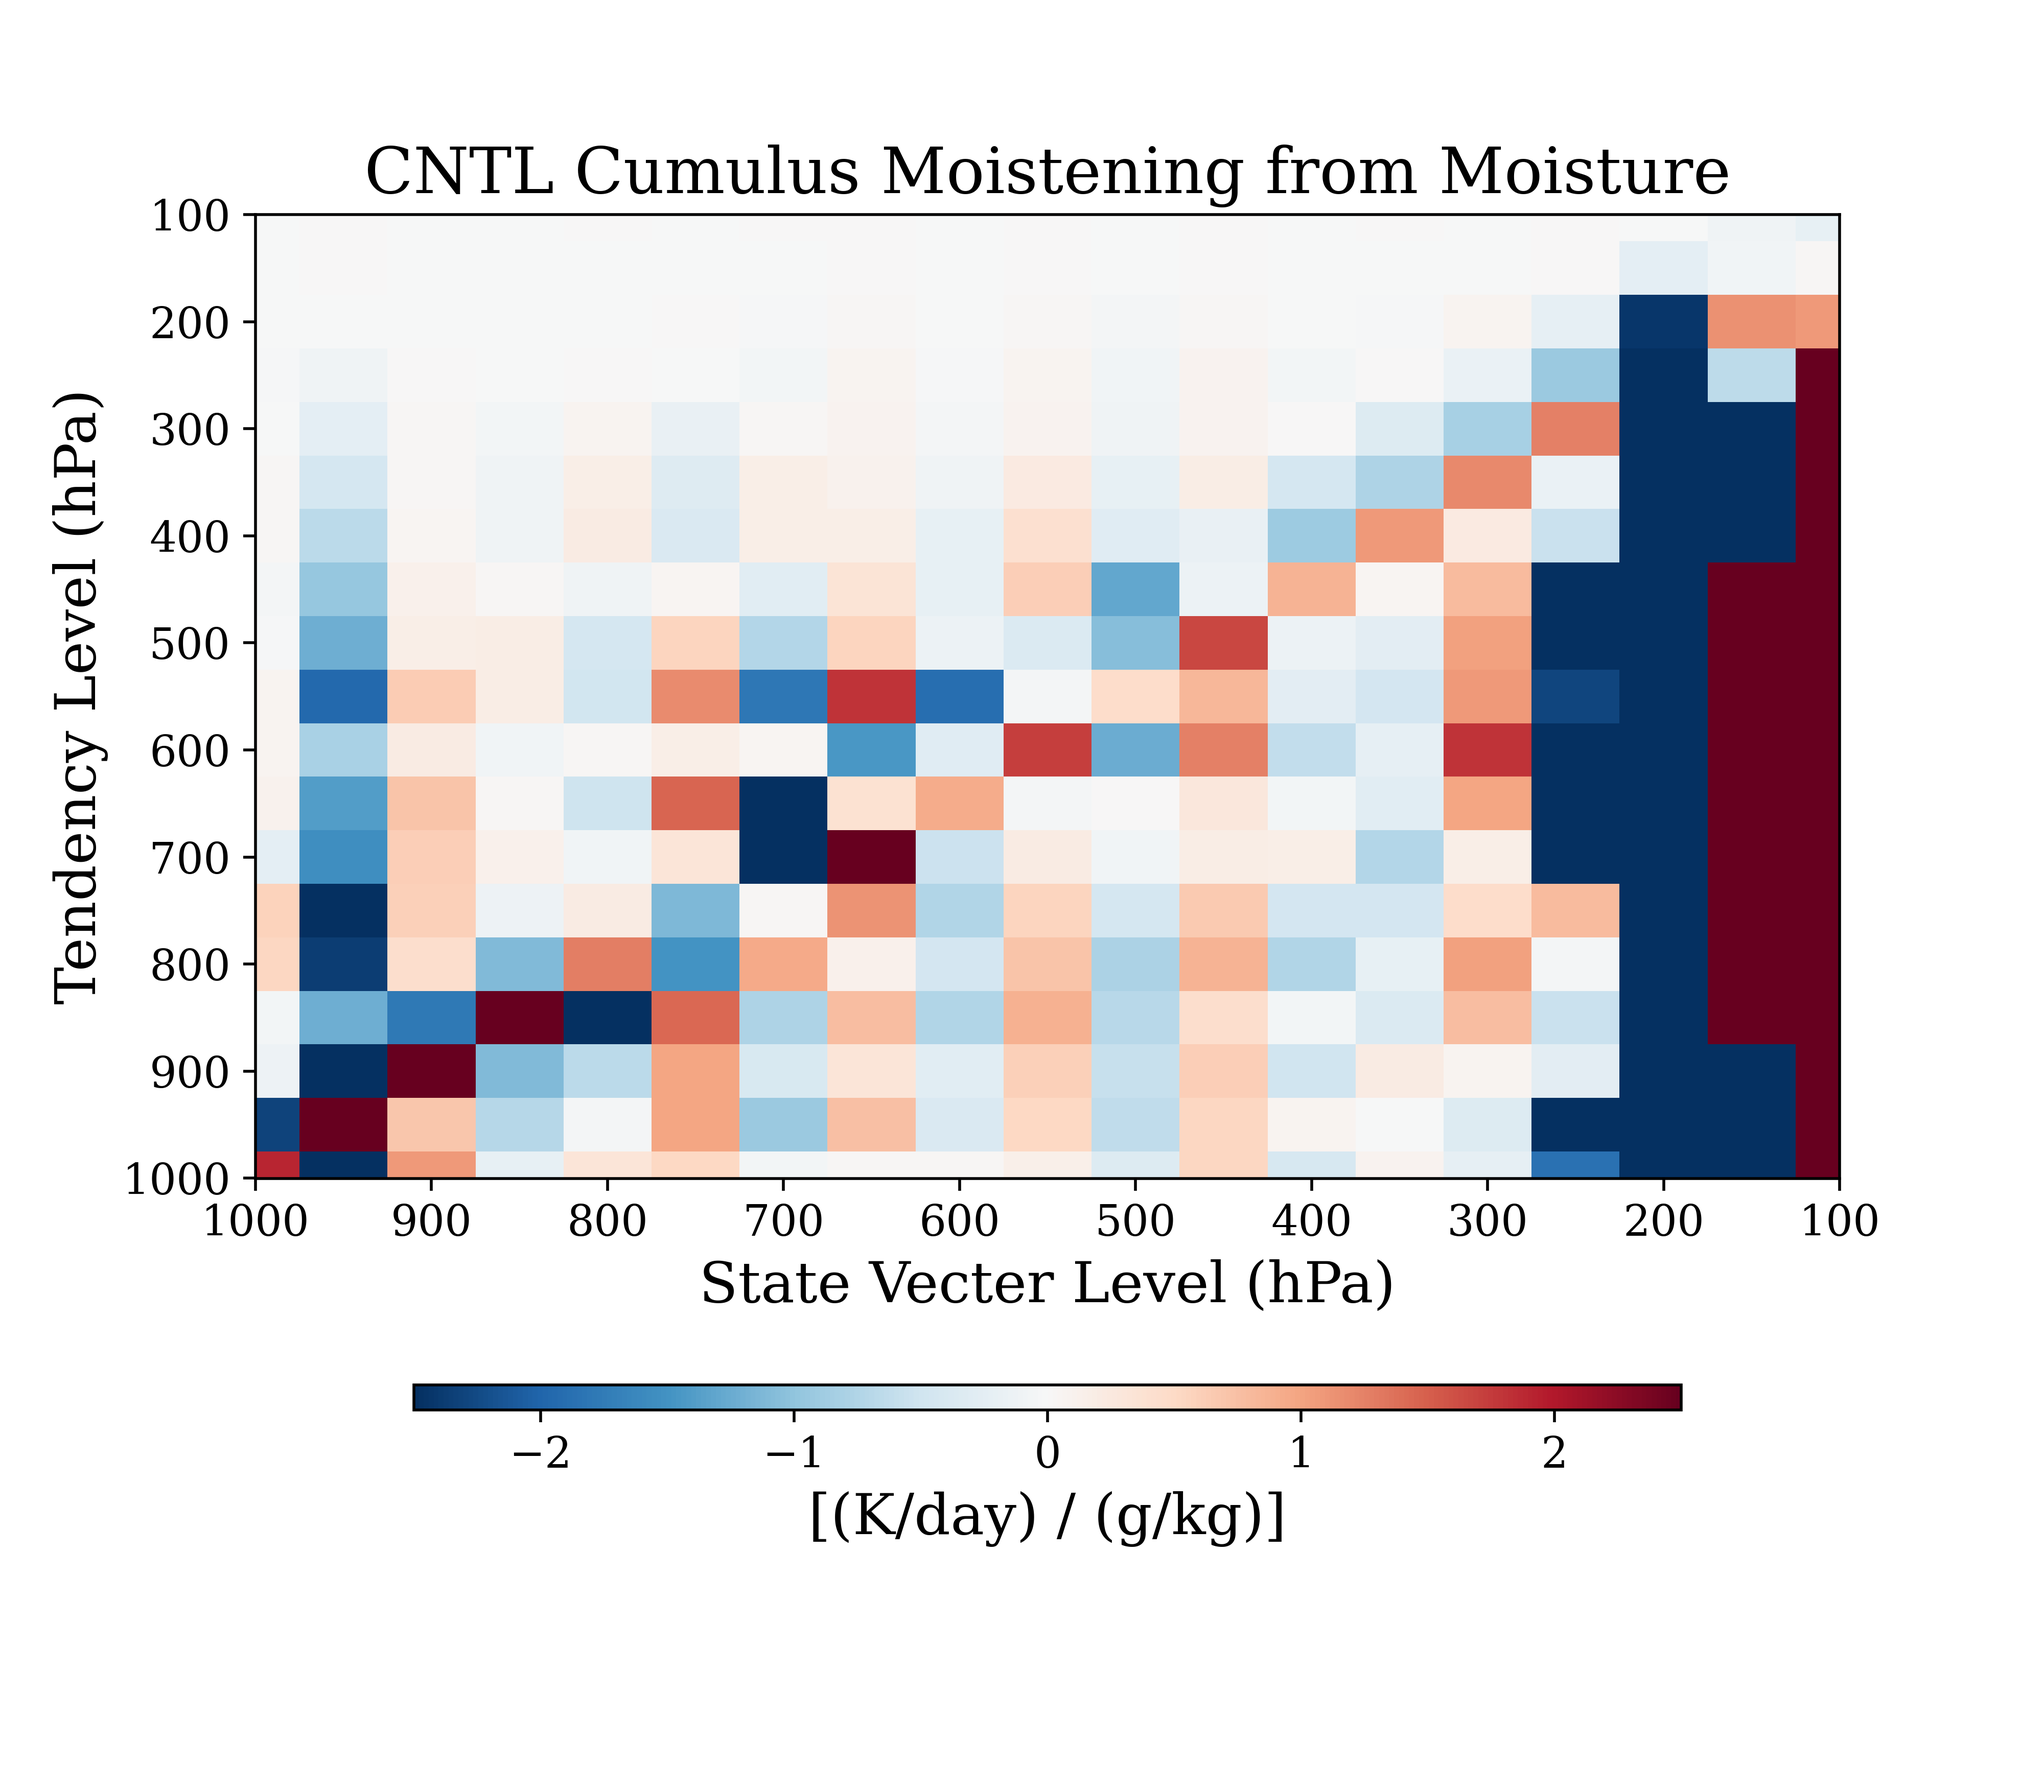
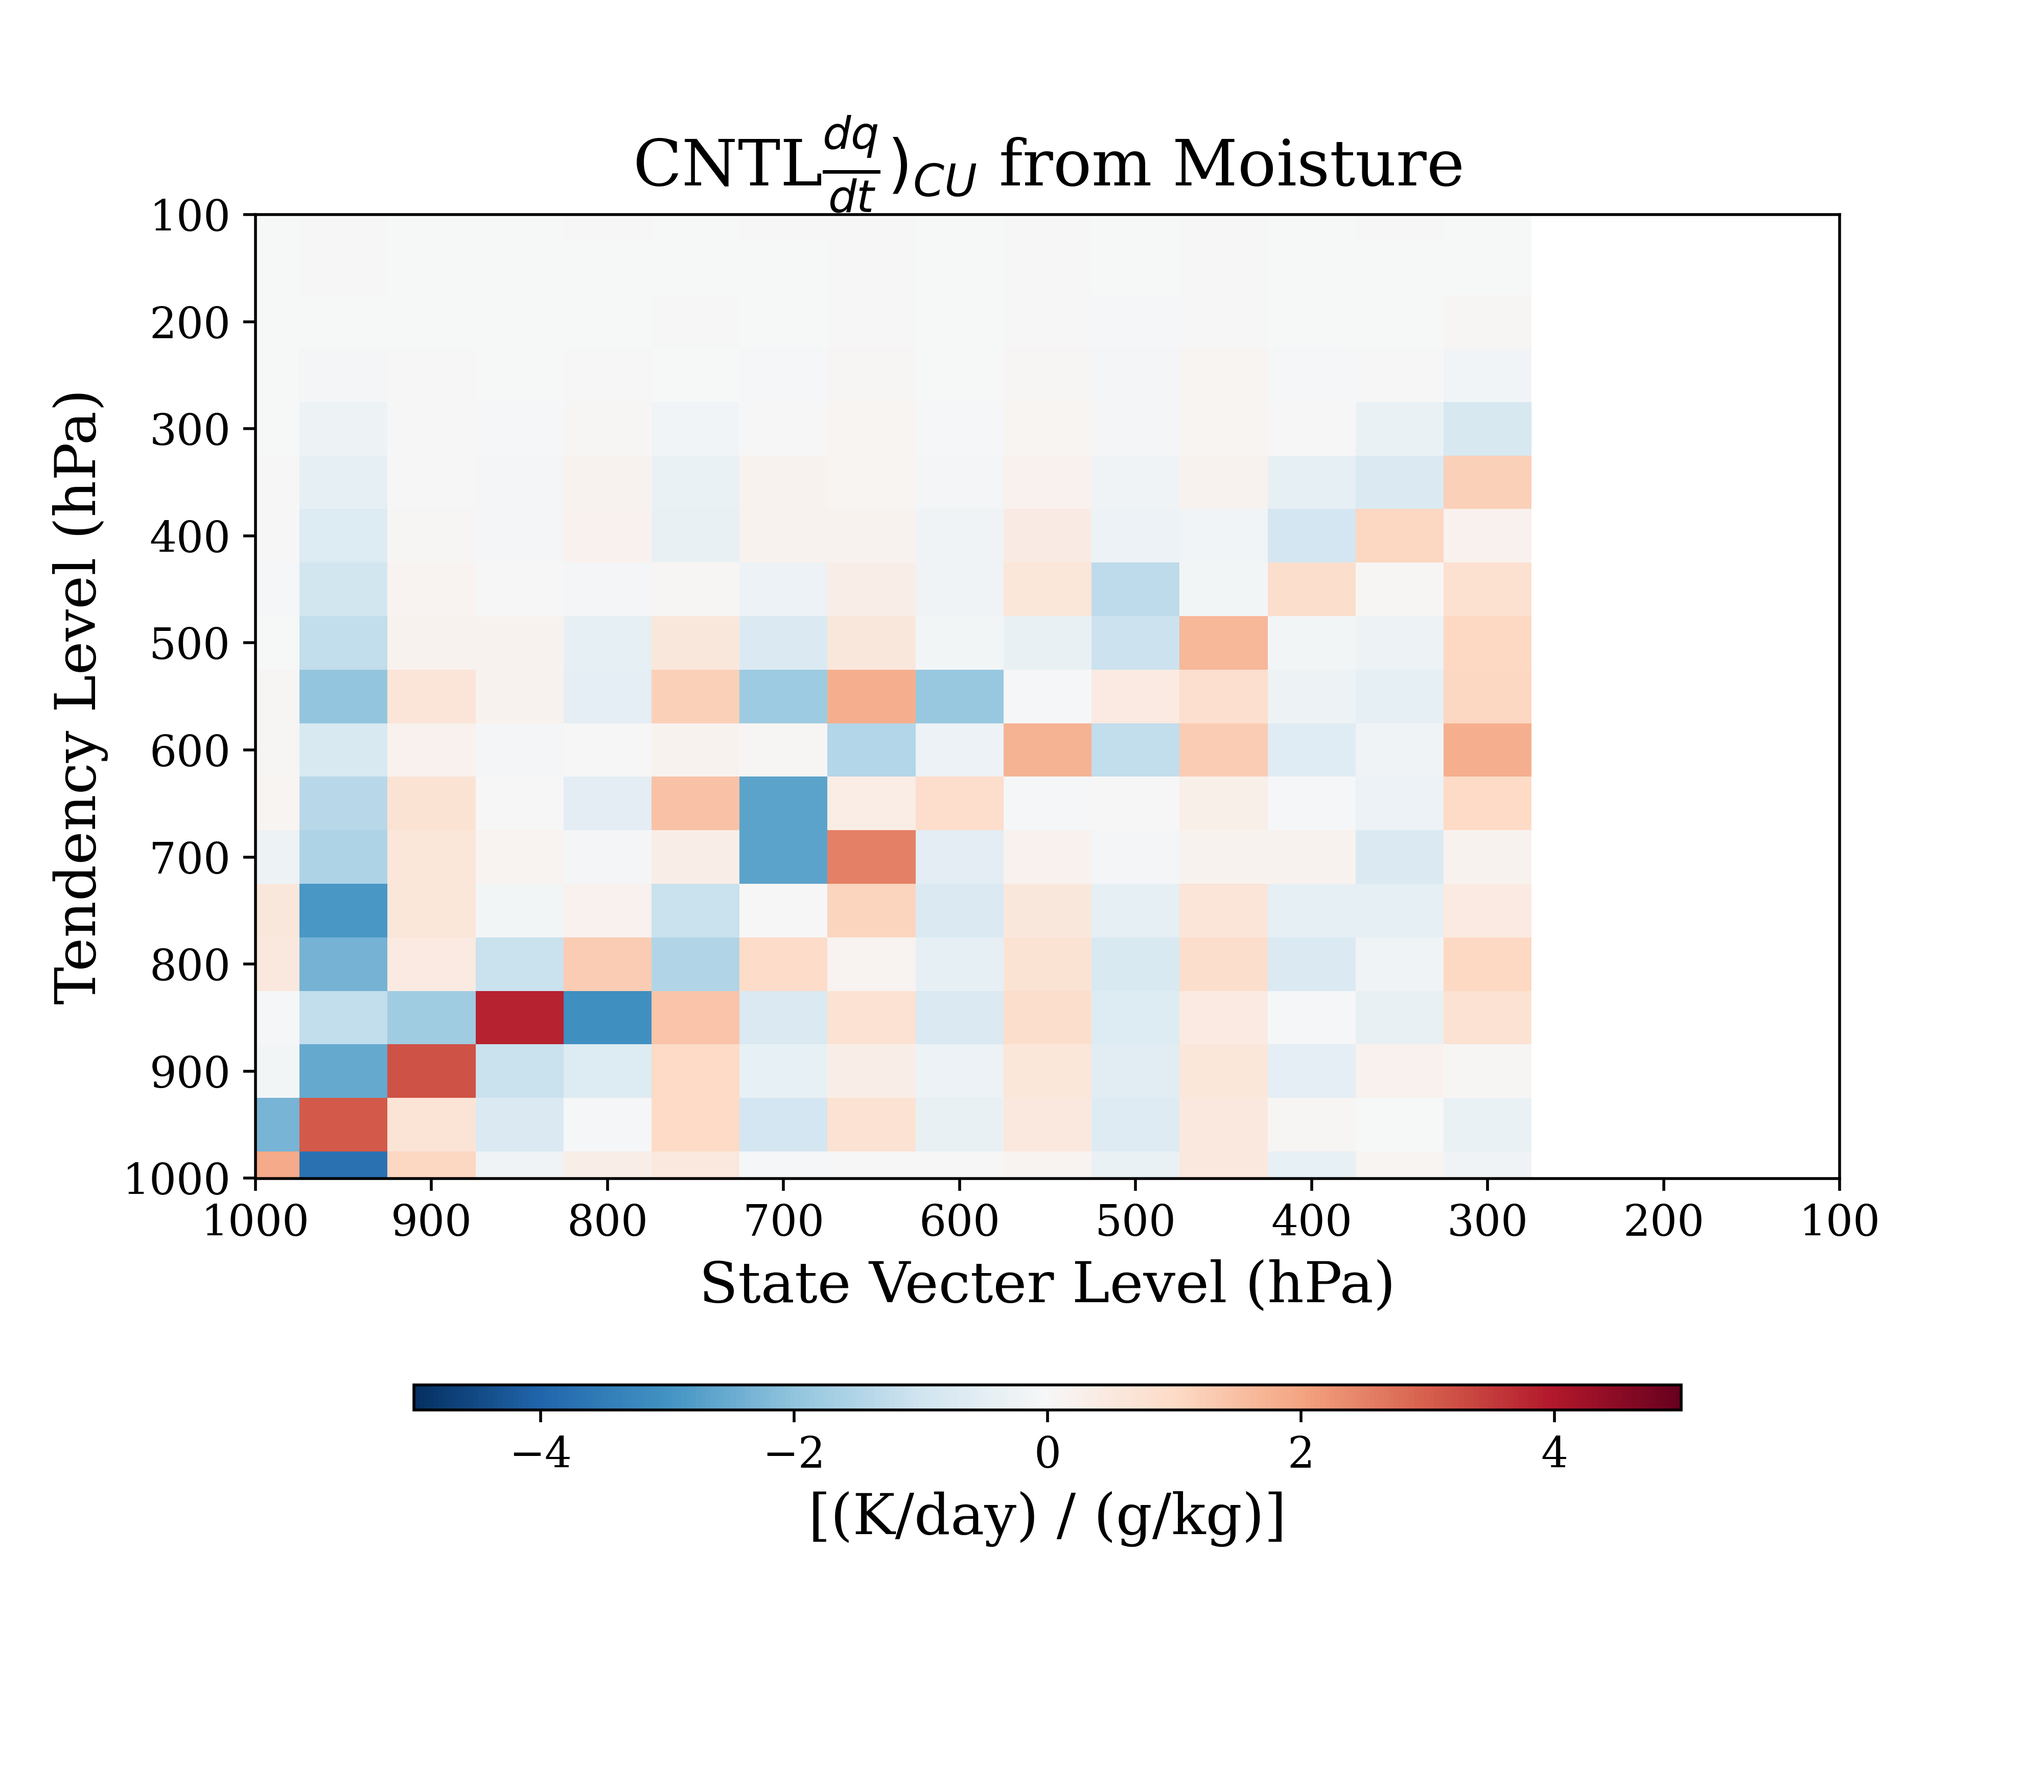
new CNTL LRF images

Changed region(s): [[0.125, 0.0623, 0.9062, 0.6851], [0.1875, 0.0623, 0.25, 0.1246]]

diff --git a/MPAS/LRF/LRF_new/CNTL.py b/MPAS/LRF/LRF_new/CNTL.py
@@ -120,6 +120,10 @@ lw_lrf = NormEqu(data_itp["rtratenlw"], state_vec)
 sw_lrf = NormEqu(data_itp["rtratensw"], state_vec)
 cu_lrf = NormEqu(conv_tend, state_vec)
 
+lw_lrf[:, 19:23] = np.nan
+sw_lrf[:, 19:23] = np.nan
+cu_lrf[:, 19:23] = np.nan
+
 lrf_dict = {
     "lev"   : lev_itp,
     "lw_lrf": lw_lrf,
@@ -153,7 +157,7 @@ plt.xlim(1000, 100)
 plt.ylim(1000, 100)
 plt.xlabel('State Vecter Level (hPa)')
 plt.ylabel('Tendency Level (hPa)')
-plt.title(f'{case} Longwave Heating from Temperature')
+plt.title(case+r"$\frac{dT}{dt})_{LW}$ from Temperature")
 plt.colorbar(orientation='horizontal', label='[(K/day) / (K) ]', aspect=50, shrink=0.8)
 plt.savefig(f'{image_path}lw_t_t.png', dpi=500)
 plt.show()
@@ -167,63 +171,63 @@ plt.xlim(1000, 100)
 plt.ylim(1000, 100)
 plt.xlabel('State Vecter Level (hPa)')
 plt.ylabel('Tendency Level (hPa)')
-plt.title(f'{case} Longwave Heating from Moisture')
+plt.title(case+r'$\frac{dT}{dt})_{LW}$ from Moisture')
 plt.colorbar(orientation='horizontal', label='[(K/day) / (g/kg)]', aspect=50, shrink=0.8)
 plt.savefig(f'{image_path}lw_t_q.png', dpi=500)
 plt.show()
 plt.close()
 
 plt.figure(figsize=(8, 7))
-plt.pcolormesh(lev_itp, lev_itp, sw_lrf[:, :19], cmap="RdBu_r", vmin=-2.5, vmax=2.5)
+plt.pcolormesh(lev_itp, lev_itp, sw_lrf[:, :19], cmap="RdBu_r", vmin=-3, vmax=3)
 plt.xticks(np.linspace(100, 1000, 10))
 plt.yticks(np.linspace(100, 1000, 10))
 plt.xlim(1000, 100)
 plt.ylim(1000, 100)
 plt.xlabel('State Vecter Level (hPa)')
 plt.ylabel('Tendency Level (hPa)')
-plt.title(f'{case} Shortwave Heating from Temperature')
+plt.title(case+r'$\frac{dT}{dt})_{SW}$ from Temperature')
 plt.colorbar(orientation='horizontal', label='[(K/day) / (K) ]', aspect=50, shrink=0.8)
 plt.savefig(f'{image_path}sw_t_t.png', dpi=500)
 plt.show()
 plt.close()
 
 plt.figure(figsize=(8, 7))
-plt.pcolormesh(lev_itp, lev_itp, sw_lrf[:, 19:], cmap="RdBu_r", vmin=-2.5, vmax=2.5)
+plt.pcolormesh(lev_itp, lev_itp, sw_lrf[:, 19:], cmap="RdBu_r", vmin=-3, vmax=3)
 plt.xticks(np.linspace(100, 1000, 10))
 plt.yticks(np.linspace(100, 1000, 10))
 plt.xlim(1000, 100)
 plt.ylim(1000, 100)
 plt.xlabel('State Vecter Level (hPa)')
 plt.ylabel('Tendency Level (hPa)')
-plt.title(f'{case} Shortwave Heating from Moisture')
+plt.title(case+r'$\frac{dT}{dt})_{SW}$ from Moisture')
 plt.colorbar(orientation='horizontal', label='[(K/day) / (g/kg)]', aspect=50, shrink=0.8)
 plt.savefig(f'{image_path}sw_t_q.png', dpi=500)
 plt.show()
 plt.close()
 
 plt.figure(figsize=(8, 7))
-plt.pcolormesh(lev_itp, lev_itp, cu_lrf[:19, :19], cmap="RdBu_r", vmin=-2.5, vmax=2.5)
+plt.pcolormesh(lev_itp, lev_itp, cu_lrf[:19, :19], cmap="RdBu_r", vmin=-5, vmax=5)
 plt.xticks(np.linspace(100, 1000, 10))
 plt.yticks(np.linspace(100, 1000, 10))
 plt.xlim(1000, 100)
 plt.ylim(1000, 100)
 plt.xlabel('State Vecter Level (hPa)')
 plt.ylabel('Tendency Level (hPa)')
-plt.title(f'{case} Cumulus Heating from Temperature')
+plt.title(case+r'$\frac{dT}{dt})_{CU}$ from Temperature')
 plt.colorbar(orientation='horizontal', label='[(K/day) / (K) ]', aspect=50, shrink=0.8)
 plt.savefig(f'{image_path}cu_t_t.png', dpi=500)
 plt.show()
 plt.close()
 
 plt.figure(figsize=(8, 7))
-plt.pcolormesh(lev_itp, lev_itp, cu_lrf[:19, 19:], cmap="RdBu_r", vmin=-2.5, vmax=2.5)
+plt.pcolormesh(lev_itp, lev_itp, cu_lrf[:19, 19:], cmap="RdBu_r", vmin=-5, vmax=5)
 plt.xticks(np.linspace(100, 1000, 10))
 plt.yticks(np.linspace(100, 1000, 10))
 plt.xlim(1000, 100)
 plt.ylim(1000, 100)
 plt.xlabel('State Vecter Level (hPa)')
 plt.ylabel('Tendency Level (hPa)')
-plt.title(f'{case} Cumulus Heating from Moisture')
+plt.title(case+r'$\frac{dT}{dt}_{CU}$ from Moisture')
 plt.colorbar(orientation='horizontal', label='[(K/day) / (g/kg)]', aspect=50, shrink=0.8)
 plt.savefig(f'{image_path}cu_t_q.png', dpi=500)
 plt.show()
@@ -237,21 +241,21 @@ plt.xlim(1000, 100)
 plt.ylim(1000, 100)
 plt.xlabel('State Vecter Level (hPa)')
 plt.ylabel('Tendency Level (hPa)')
-plt.title(f'{case} Cumulus Moistening from Temperature')
+plt.title(case+r'$\frac{dq}{dt}_{CU}$ from Temperature')
 plt.colorbar(orientation='horizontal', label='[(K/day) / (K) ]', aspect=50, shrink=0.8)
 plt.savefig(f'{image_path}cu_q_t.png', dpi=500)
 plt.show()
 plt.close()
 
 plt.figure(figsize=(8, 7))
-plt.pcolormesh(lev_itp, lev_itp, cu_lrf[19:, 19:], cmap="RdBu_r", vmin=-2.5, vmax=2.5)
+plt.pcolormesh(lev_itp, lev_itp, cu_lrf[19:, 19:], cmap="RdBu_r", vmin=-5, vmax=5)
 plt.xticks(np.linspace(100, 1000, 10))
 plt.yticks(np.linspace(100, 1000, 10))
 plt.xlim(1000, 100)
 plt.ylim(1000, 100)
 plt.xlabel('State Vecter Level (hPa)')
 plt.ylabel('Tendency Level (hPa)')
-plt.title(f'{case} Cumulus Moistening from Moisture')
+plt.title(case+r'$\frac{dq}{dt})_{CU}$ from Moisture')
 plt.colorbar(orientation='horizontal', label='[(K/day) / (g/kg)]', aspect=50, shrink=0.8)
 plt.savefig(f'{image_path}cu_q_q.png', dpi=500)
 plt.show()
